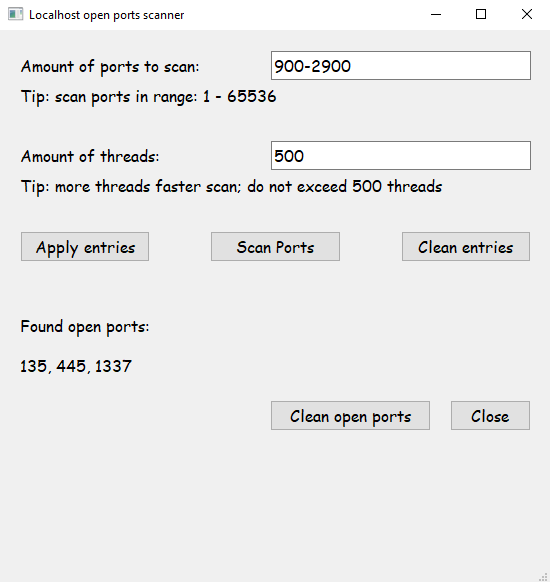
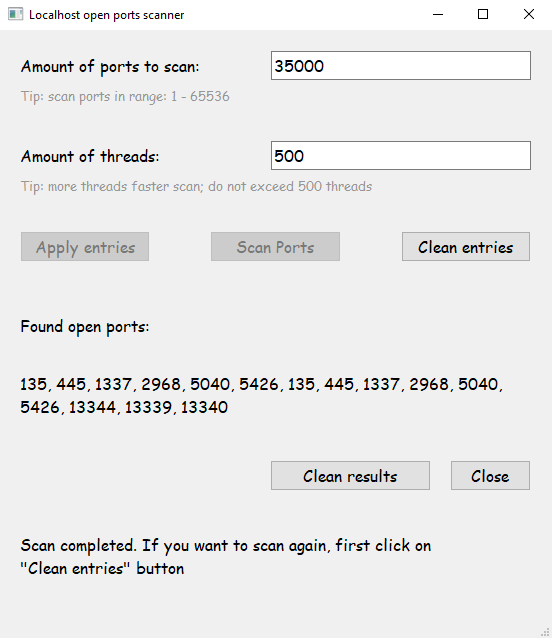
clean code and improve application according to suggestions

diff --git a/App_main/scanner.py b/App_main/scanner.py
@@ -1,9 +1,11 @@
+import re
 import socket
 import sys
 from queue import Queue
 from threading import Thread
 from typing import Any, Iterable
 
+import PyQt6.QtGui as qtg
 import PyQt6.QtWidgets as qtw
 from UI.ports_scan_ui import Ui_mw_main  # type: ignore
 
@@ -22,12 +24,22 @@ class SocketMain(qtw.QMainWindow, Ui_mw_main):
     def __init__(self) -> None:
         super().__init__()
         self.setupUi(self)
+        self.tips_style()
         self.pb_apply_to_scan.clicked.connect(self.apply_queue)
         self.pb_scan.clicked.connect(self.scan_ports)
         self.pb_clean_entries.clicked.connect(self.clean_entries)
         self.pb_cancel.clicked.connect(self.close)
         self.pb_clean_ports.clicked.connect(self.clean_open_ports)
+        self.lb_le_found_ports.setWordWrap(True)
         Messages.entry_message(self)
+    
+    def tips_style(self):
+        self.lb_scanned_ports_tip.setStyleSheet(
+            "QLabel {color: rgb(150, 150, 150); font: 10pt 'Comic Sans MS'}"
+        )
+        self.lb_threads_tip.setStyleSheet(
+            "QLabel {color: rgb(150, 150, 150); font: 10pt 'Comic Sans MS'}"
+        )
     
     def port_scanner(self, port) -> bool:
         try:
@@ -41,9 +53,18 @@ class SocketMain(qtw.QMainWindow, Ui_mw_main):
         for x in ports_ls:
             self.q.put(x)
     
+    def validate_input(self, txt: str) -> bool:
+        ls_punct = ['!', '"', '#', '$', '%', '&', "'", '(', ')', '*', '+', ',', 
+                    '.', '/', ':', ';', '<', '=', '>', '?', '@', '[', '\\', ']',
+                    '^', '_', '`', '{', '|', '}', '~']
+        r = re.compile('[' + 'a-zA-Z' + re.escape(''.join(ls_punct)) + ']')
+        res = bool(re.findall(r, txt)) or bool(re.match('[-0]', txt))
+        return not res
+    
     def _ports_limit(self) -> None:
         n, n1, n2 = 0, 0, 0
-        if len(self.le_ports_amount.text()):
+        if len(self.le_ports_amount.text())\
+            and self.validate_input(self.le_ports_amount.text()):
             if '-' in self.le_ports_amount.text():
                 n1, n2 = [
                     int(x) for x in self.le_ports_amount.text().split('-')
@@ -65,16 +86,19 @@ class SocketMain(qtw.QMainWindow, Ui_mw_main):
                 self.applied_ports = True
                 Messages.apply(self)
         else:
+            self.le_ports_amount.clear()
             Messages.forgotten_entries(self)
     
     def _threads_limit(self) -> None:
-        if len(self.le_threads_amount.text()):
+        if len(self.le_threads_amount.text())\
+            and self.validate_input(self.le_threads_amount.text()):
             self.threads_nb  = int(self.le_threads_amount.text())
             if self.threads_nb > 500:
                 Messages.exceed_threads_limit(self)
             else:
                 self.applied_threads = True
         else:
+            self.le_threads_amount.clear()
             Messages.forgotten_entries(self)
 
     def apply_queue(self) -> None:
@@ -100,7 +124,9 @@ class SocketMain(qtw.QMainWindow, Ui_mw_main):
                 tf.join()
             
             self.lb_le_found_ports.setText(str(self.open_ports)[1:-1])
-            Messages.clean(self)
+            self.pb_apply_to_scan.setDisabled(True)
+            self.pb_scan.setDisabled(True)
+            Messages.scan_again(self)
         else:
             Messages.forgotten_entries(self)
 
@@ -110,6 +136,10 @@ class SocketMain(qtw.QMainWindow, Ui_mw_main):
         self.threads_ls.clear()
         self.applied_ports = False
         self.applied_threads = False
+        self.pb_apply_to_scan.setDisabled(False)
+        self.pb_scan.setDisabled(False)
+        Messages.clean(self)
+
     
     def clean_open_ports(self) -> None:
         self.lb_le_found_ports.clear()
@@ -119,7 +149,7 @@ class SocketMain(qtw.QMainWindow, Ui_mw_main):
 class Messages(SocketMain):
     def entry_message(self):
         self.lb_message.setText(
-            'Fill entries:\n"{}", "{}" and push \n"{}" button'.format(
+            'Fill entries:\n"{}", "{}" and click on \n"{}" button'.format(
                 self.lb_ports_amount.text()[:-1],
                 self.lb_threads_amount.text()[:-1],
                 self.pb_apply_to_scan.text()
@@ -128,8 +158,8 @@ class Messages(SocketMain):
     
     def forgotten_entries(self):
         self.lb_message.setText(
-                'Entries:\n"{}" and "{}"\n have to be filled in,'
-                ' next push "{}" button'.format(
+                'Entries:\n"{}" and "{}"\n have to be filled in with positive'
+                ' integers only, next click on \n"{}" button'.format(
                     self.lb_ports_amount.text()[:-1],
                     self.lb_threads_amount.text()[:-1],
                     self.pb_apply_to_scan.text()
@@ -138,7 +168,7 @@ class Messages(SocketMain):
     
     def apply(self):
         self.lb_message.setText(
-                'Now push "{}" button'.format(
+                'Now click on "{}" button'.format(
                     self.pb_scan.text()))
     
     def clean(self):
@@ -154,8 +184,13 @@ class Messages(SocketMain):
             'The provided number of threads is'
             ' bigger then max. number of threads'
             )
-
-
+    def scan_again(self):
+        self.lb_message.setText(
+            'Scan completed. If you want to scan again,'
+            ' first click on\n"{}" button'.format(
+                self.pb_clean_entries.text()
+            )
+        )
 
 
 

diff --git a/App_main/UI/ports_scan_ui.py b/App_main/UI/ports_scan_ui.py
@@ -12,7 +12,7 @@ from PyQt6 import QtCore, QtGui, QtWidgets
 class Ui_mw_main(object):
     def setupUi(self, mw_main):
         mw_main.setObjectName("mw_main")
-        mw_main.resize(550, 553)
+        mw_main.resize(552, 608)
         font = QtGui.QFont()
         font.setFamily("Comic Sans MS")
         font.setPointSize(12)
@@ -20,10 +20,10 @@ class Ui_mw_main(object):
         self.centralwidget = QtWidgets.QWidget(parent=mw_main)
         self.centralwidget.setObjectName("centralwidget")
         self.lb_message = QtWidgets.QLabel(parent=self.centralwidget)
-        self.lb_message.setGeometry(QtCore.QRect(20, 420, 531, 91))
+        self.lb_message.setGeometry(QtCore.QRect(20, 480, 511, 91))
         self.lb_message.setObjectName("lb_message")
         self.lb_le_found_ports = QtWidgets.QLabel(parent=self.centralwidget)
-        self.lb_le_found_ports.setGeometry(QtCore.QRect(20, 320, 510, 31))
+        self.lb_le_found_ports.setGeometry(QtCore.QRect(20, 320, 510, 91))
         self.lb_le_found_ports.setText("")
         self.lb_le_found_ports.setTextInteractionFlags(QtCore.Qt.TextInteractionFlag.LinksAccessibleByMouse|QtCore.Qt.TextInteractionFlag.TextSelectableByMouse)
         self.lb_le_found_ports.setObjectName("lb_le_found_ports")
@@ -73,10 +73,10 @@ class Ui_mw_main(object):
         self.pb_clean_entries.setObjectName("pb_clean_entries")
         self.gl_scan_buttons.addWidget(self.pb_clean_entries, 0, 2, 1, 1)
         self.pb_cancel = QtWidgets.QPushButton(parent=self.centralwidget)
-        self.pb_cancel.setGeometry(QtCore.QRect(450, 370, 81, 31))
+        self.pb_cancel.setGeometry(QtCore.QRect(450, 430, 81, 31))
         self.pb_cancel.setObjectName("pb_cancel")
         self.pb_clean_ports = QtWidgets.QPushButton(parent=self.centralwidget)
-        self.pb_clean_ports.setGeometry(QtCore.QRect(270, 370, 161, 31))
+        self.pb_clean_ports.setGeometry(QtCore.QRect(270, 430, 161, 31))
         sizePolicy = QtWidgets.QSizePolicy(QtWidgets.QSizePolicy.Policy.Minimum, QtWidgets.QSizePolicy.Policy.Fixed)
         sizePolicy.setHorizontalStretch(0)
         sizePolicy.setVerticalStretch(0)
@@ -85,6 +85,10 @@ class Ui_mw_main(object):
         self.pb_clean_ports.setObjectName("pb_clean_ports")
         self.lb_scanned_ports_tip = QtWidgets.QLabel(parent=self.centralwidget)
         self.lb_scanned_ports_tip.setGeometry(QtCore.QRect(20, 50, 511, 31))
+        font = QtGui.QFont()
+        font.setFamily("Comic Sans MS")
+        font.setPointSize(12)
+        self.lb_scanned_ports_tip.setFont(font)
         self.lb_scanned_ports_tip.setObjectName("lb_scanned_ports_tip")
         self.lb_threads_tip = QtWidgets.QLabel(parent=self.centralwidget)
         self.lb_threads_tip.setGeometry(QtCore.QRect(20, 140, 511, 31))
@@ -110,6 +114,6 @@ class Ui_mw_main(object):
         self.pb_scan.setText(_translate("mw_main", "Scan Ports"))
         self.pb_clean_entries.setText(_translate("mw_main", "Clean entries"))
         self.pb_cancel.setText(_translate("mw_main", "Close"))
-        self.pb_clean_ports.setText(_translate("mw_main", "Clean open ports"))
+        self.pb_clean_ports.setText(_translate("mw_main", "Clean results"))
         self.lb_scanned_ports_tip.setText(_translate("mw_main", "Tip: scan ports in range: 1 - 65536"))
         self.lb_threads_tip.setText(_translate("mw_main", "Tip: more threads faster scan; do not exceed 500 threads"))
